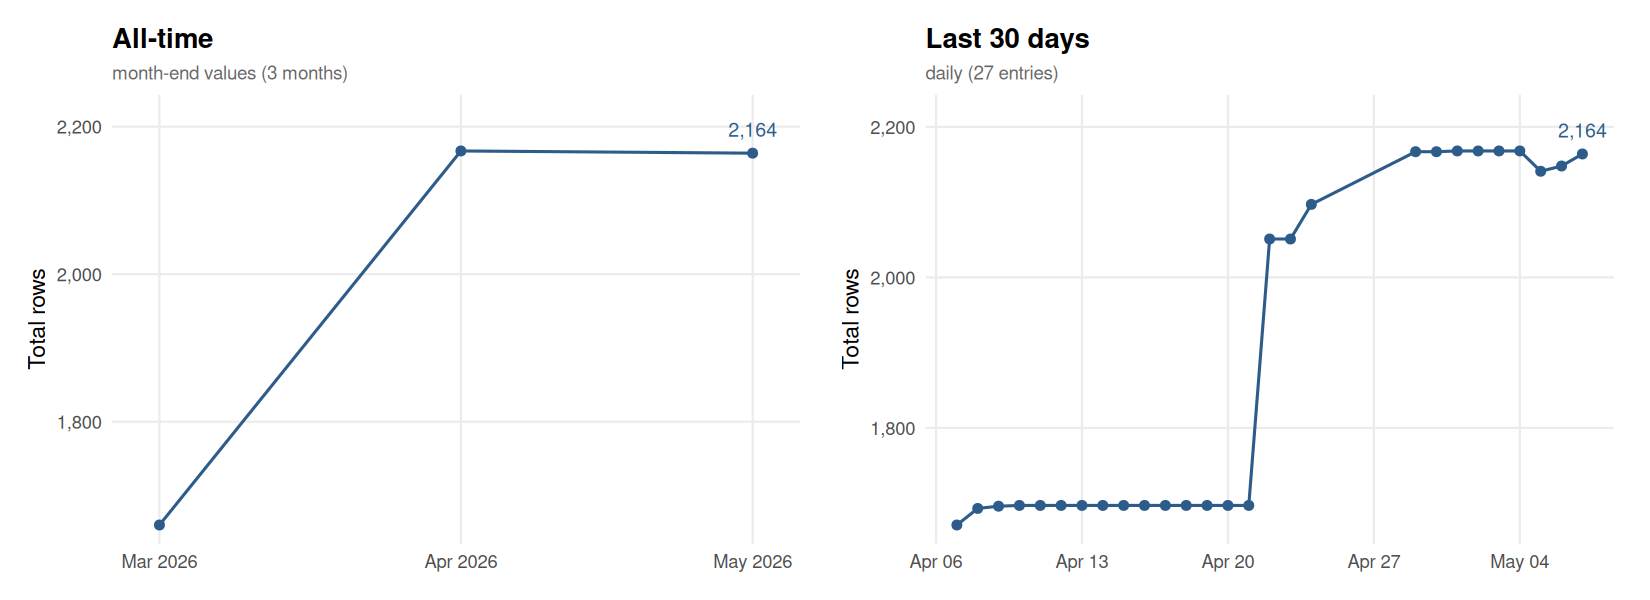
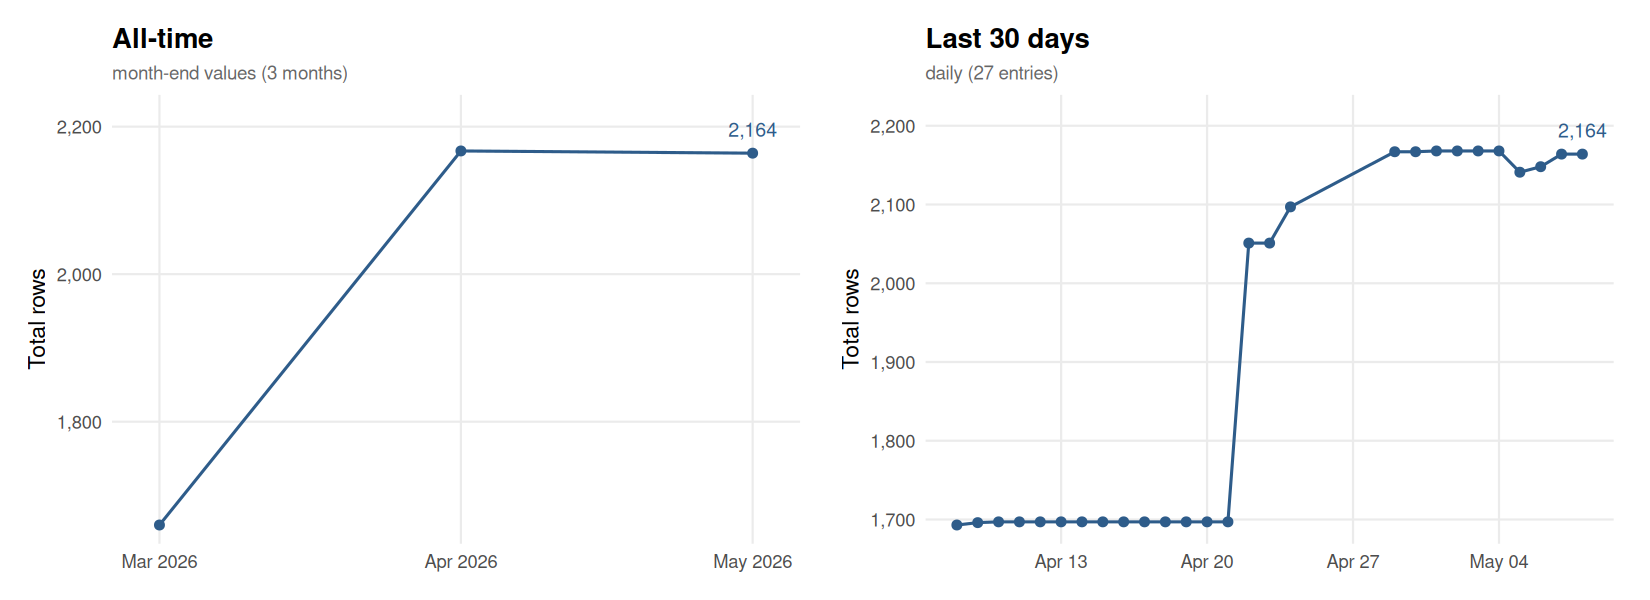
Update flora.csv [automated]

diff --git a/README.md b/README.md
@@ -438,14 +438,15 @@ For API issues:
 This chart is automatically updated after each pipeline run, showing the size of `output/flora.csv` over time.
 
 <!-- FLORA_UPDATE_LOG_START -->
-> **Latest (2026-05-07):** Total = 2,164 | Replications = 2,155 | Reproductions = 9
+> **Latest (2026-05-08):** Total = 2,164 | Replications = 2,155 | Reproductions = 9
 
 ![FLoRA dataset size over time](output/flora_history.png)
 
-<details><summary>Full history (49 entries)</summary>
+<details><summary>Full history (50 entries)</summary>
 
 | Date | Total | Replications | Reproductions |
 |------|------:|-------------:|--------------:|
+| 2026-05-08 | 2164 | 2155 | 9 |
 | 2026-05-07 | 2164 | 2155 | 9 |
 | 2026-05-06 | 2148 | 2139 | 9 |
 | 2026-05-05 | 2141 | 2132 | 9 |
